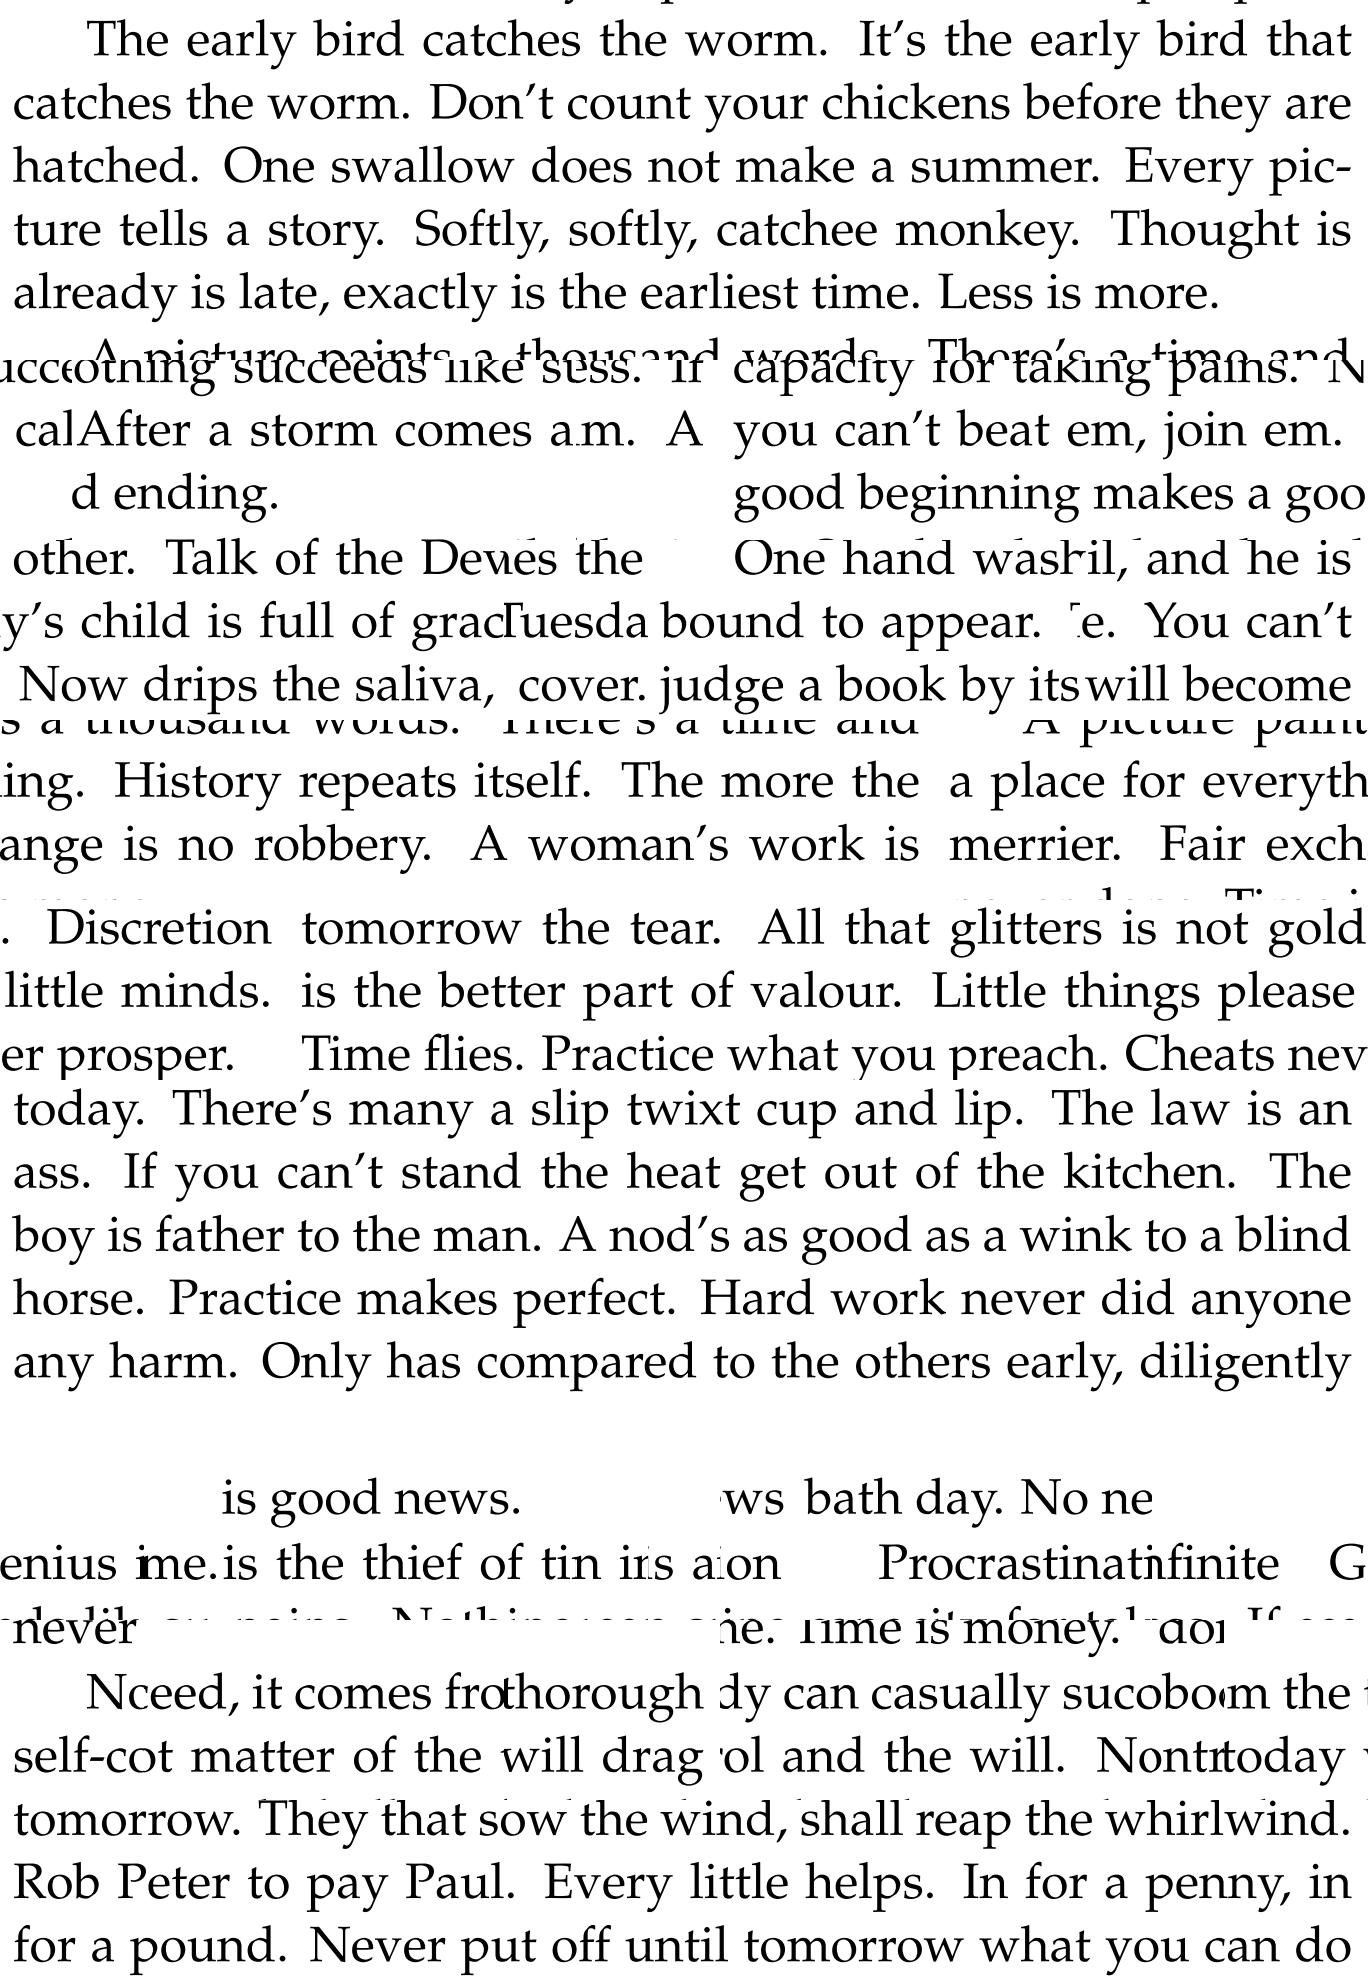
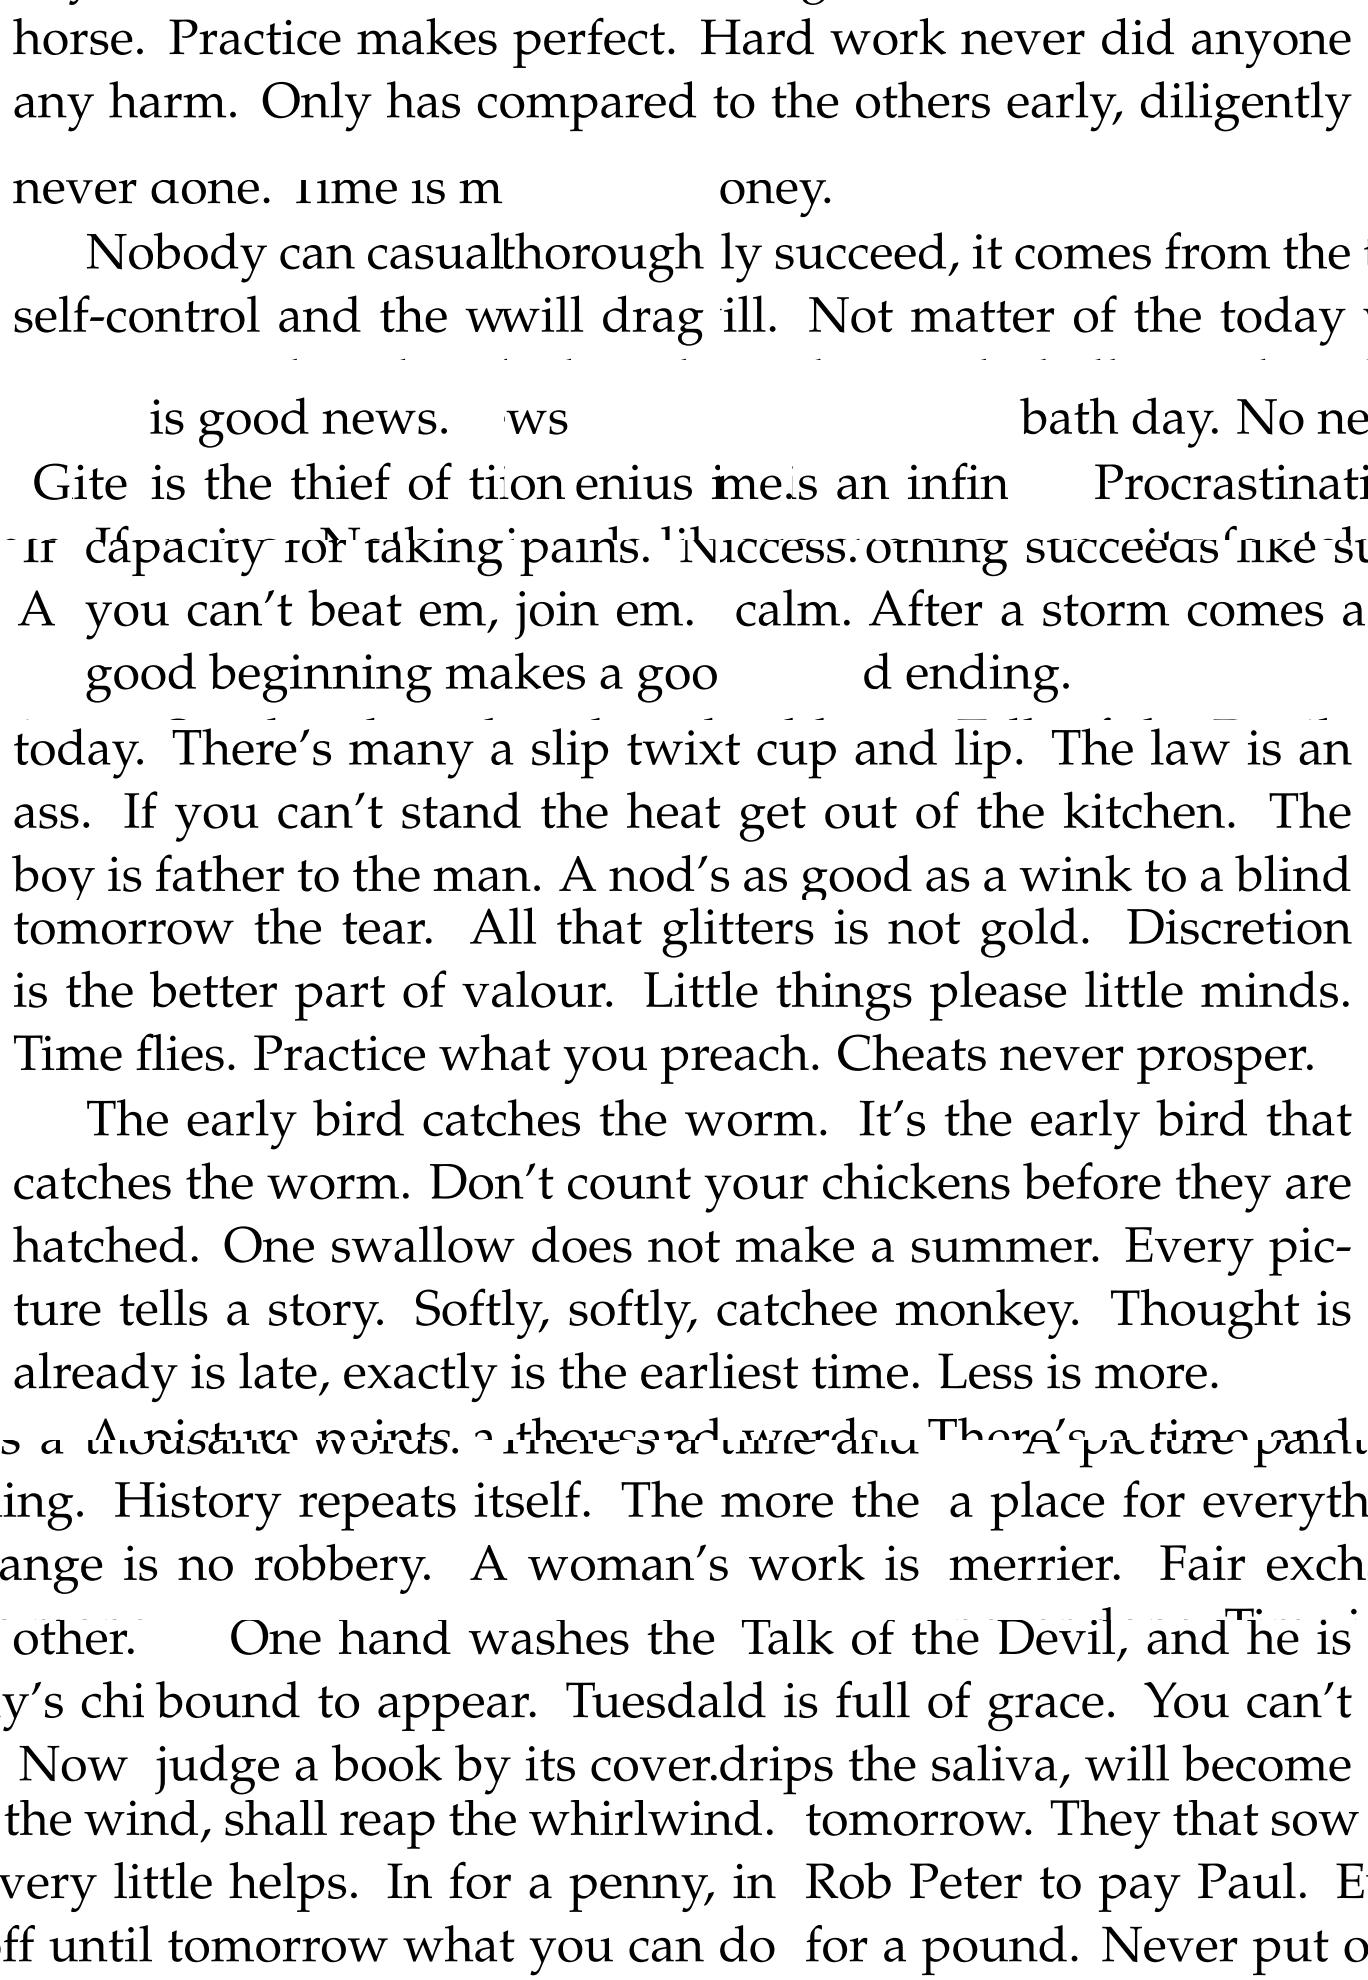
update pheromone count

Changed region(s): [[0.0, 0.0, 1.0, 1.0]]

diff --git a/main.py b/main.py
@@ -60,7 +60,7 @@ def reset(path):
     del path[:pointer + 1]
     return path
 
-def sort(array_, direction=Array.RIGHT, cycle=20, ant_num=400):
+def sort(array_, direction=Array.RIGHT, cycle=20, ant_num=400, P=5):
     """
     排序方法
     :param array_: <list of Array> 需要排序的 Array 对象的列表
@@ -75,7 +75,7 @@ def sort(array_, direction=Array.RIGHT, cycle=20, ant_num=400):
     cost_matrix = 1 - np.array(
         [[array_[y].match(array_[x], direction) for x in range(site_num)] for y in range(site_num)])
     # 初始化 Field 对象用于处理蚁群算法
-    field = Field(cost_matrix, cycle, ant_num)
+    field = Field(cost_matrix, cycle, ant_num, P)
     # 运行蚁群算法获得最佳路径
     best_path = field.run()
     # 根据定义的起始点对路径进行重排
@@ -254,9 +254,10 @@ def ants_algorithm_h_v():
     new_class_list = get_longests(class_list, 11)
     print(new_class_list)
 
-    plot(array_pool[26].get_row().image_array, 'r', 'image 26')
-    plot(array_pool[165].get_row().image_array, 'g', 'image 165')
-    plot(array_pool[204].get_row().image_array, 'b', 'image 204')
+    # 绘图
+    # plot(array_pool[26].get_row().image_array, 'r', 'image 26')
+    # plot(array_pool[165].get_row().image_array, 'g', 'image 165')
+    # plot(array_pool[204].get_row().image_array, 'b', 'image 204')
 
     # 根据分类，先沿横向合并，再沿纵向合并
     array_ver = []
@@ -265,10 +266,10 @@ def ants_algorithm_h_v():
         for index in class_:
             array_.append(array_pool[index])
         array_.append(Array().load_array([[255] * 1] * array_[0].height))
-        array_ver.append(sort(array_, Array.RIGHT, cycle=20, ant_num=200))
+        array_ver.append(sort(array_, Array.RIGHT, cycle=20, ant_num=200, P=5))
 
     array_ver.append(Array().load_array([[255] * array_ver[0].width] * 1))
-    sort(array_ver, Array.BOTTOM, cycle=20, ant_num=400).convert_to_image('problem{}.jpg'.format(str(problem)))
+    sort(array_ver, Array.BOTTOM, cycle=20, ant_num=400, P=3).convert_to_image('problem{}.jpg'.format(str(problem)))
 
 if __name__ == '__main__':
     ants_algorithm_h_v()

diff --git a/modules/Array.py b/modules/Array.py
@@ -166,19 +166,7 @@ class Array(object):
         :return:
         """
         array = np.sum(255 - self.image_array, 1) / 255 / self.width
-        # point_array = []
-        # white = False
-        # for item in array:
-        #     if item > 255 * self.width * 0.2 and not white:
-        #         point_array.append(1)
-        #         white = True
-        #     elif item <= 255 * self.width * 0.2 and white:
-        #         point_array.append(1)
-        #         white = False
-        #     else:
-        #         point_array.append(0)
         return Array().load_array(array.reshape((self.height, 1)))
-        # return np.array(point_array).reshape((self.height, 1))
 
     def convolution(self, vector, kernel):
         """

diff --git a/modules/Field.py b/modules/Field.py
@@ -8,7 +8,7 @@ from modules.Ant import Ant
 
 class Field(object):
 
-    def __init__(self, cost_matrix, cycle, ant_num):
+    def __init__(self, cost_matrix, cycle, ant_num, P=5):
         # pheromone 的指数因子
         self.alpha = 1
         # 代价的指数因子
@@ -16,7 +16,7 @@ class Field(object):
         # pheromone 的衰减系数
         self.decay = 0.5
         # pheromone 的总量
-        self.P = 5
+        self.P = P
 
         # 循环的次数
         self.cycle = cycle
